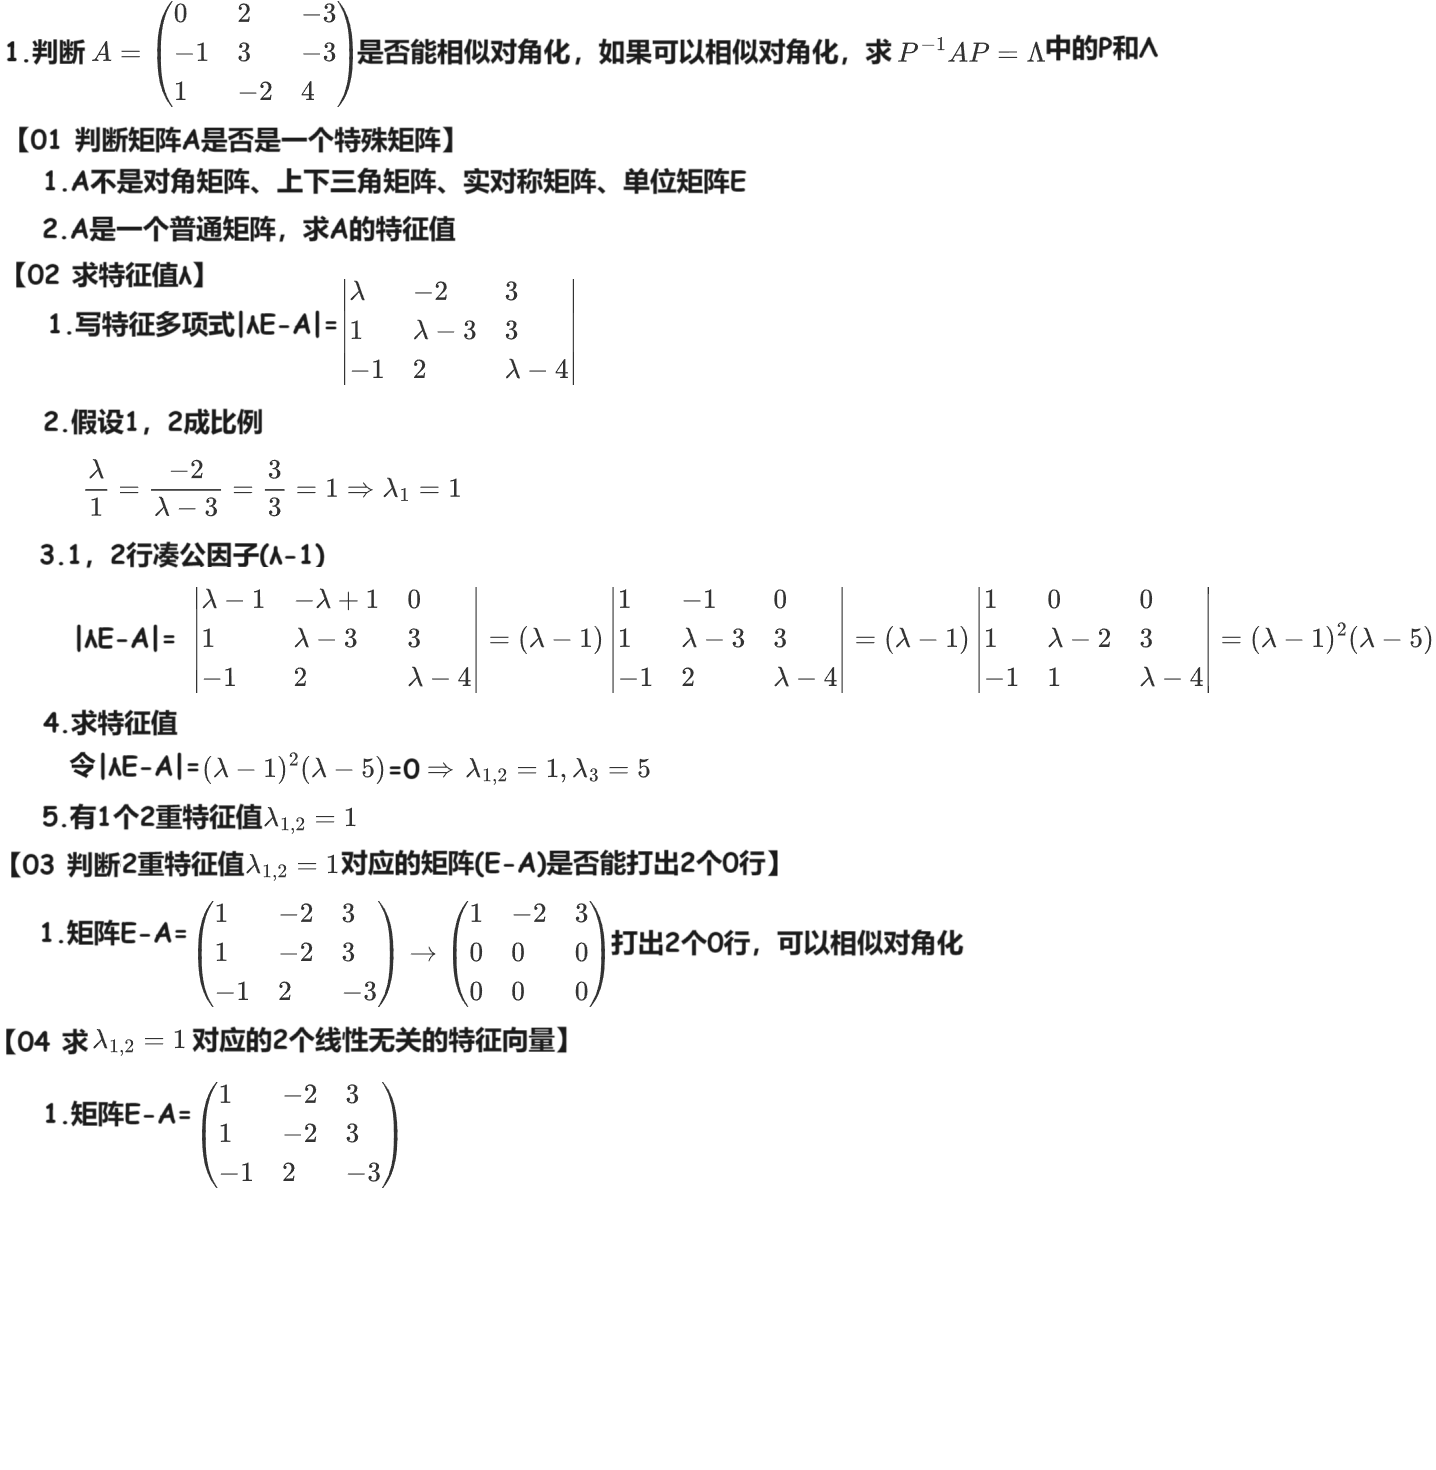
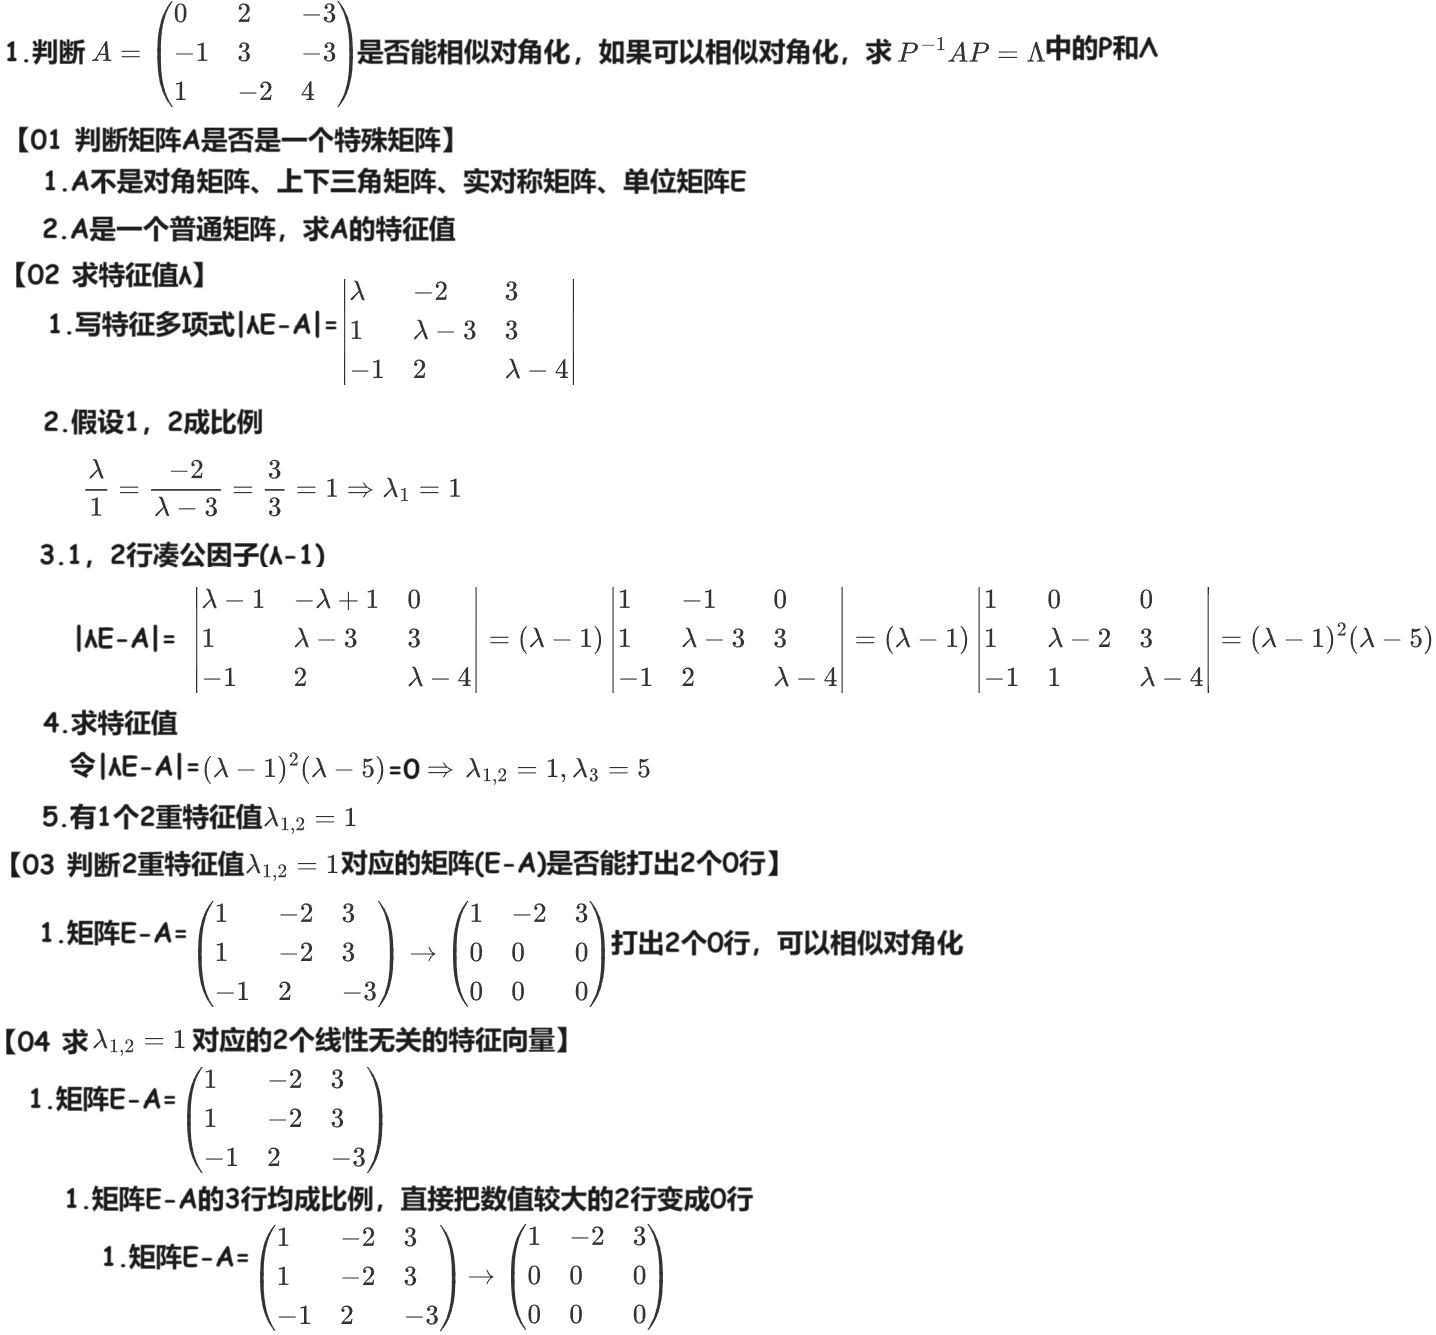
240308

diff --git a/02 线代/01 题集/02 专题/01 相似对角化 240308/02 题集/02 求齐次方程组 240308/02 Doc.md b/02 线代/01 题集/02 专题/01 相似对角化 240308/02 题集/02 求齐次方程组 240308/02 Doc.md
@@ -1,0 +1,7 @@
+# 01 题目
+
+<img src="https://cvp.oss-cn-shanghai.aliyuncs.com/picgo/202403082112197.png" alt="image-20240308211215954" style="zoom: 50%;" />
+
+
+
+# 02 答案

diff --git a/02 线代/04 李永乐/01 方程组/02 Doc.md b/02 线代/04 李永乐/01 方程组/02 Doc.md
@@ -1,0 +1,2 @@
+# 01 方程组 知识总览
+

diff --git a/02 线代/01 题集/02 专题/01 相似对角化 240308/02 题集/01 相似对角化 240308/02 Doc.md b/02 线代/01 题集/02 专题/01 相似对角化 240308/02 题集/01 相似对角化 240308/02 Doc.md
@@ -7,7 +7,3 @@
 
 
 # 02 答案
-
-
-
-# 
